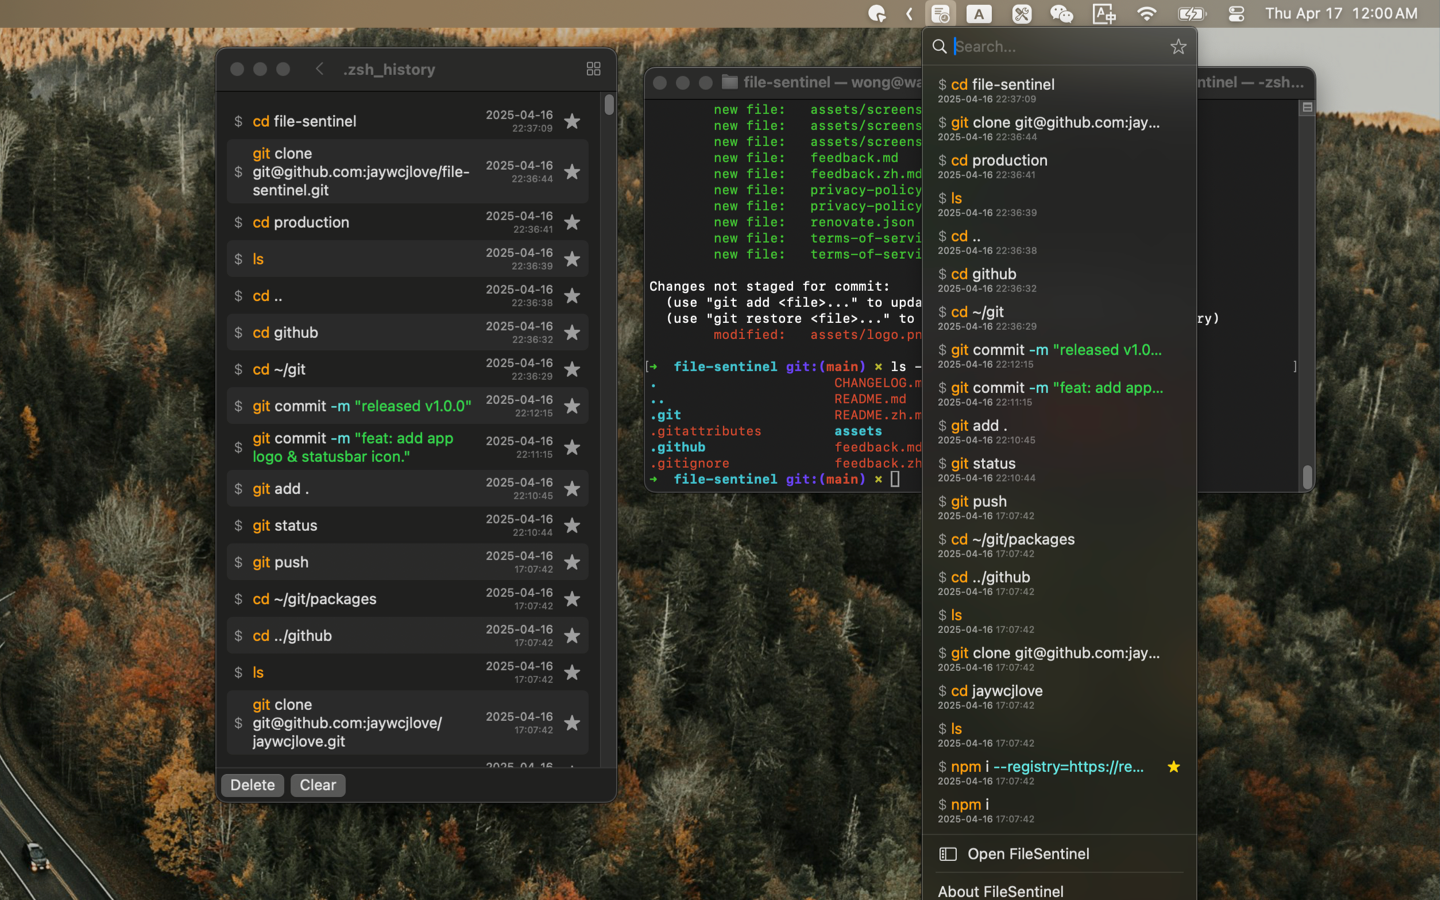
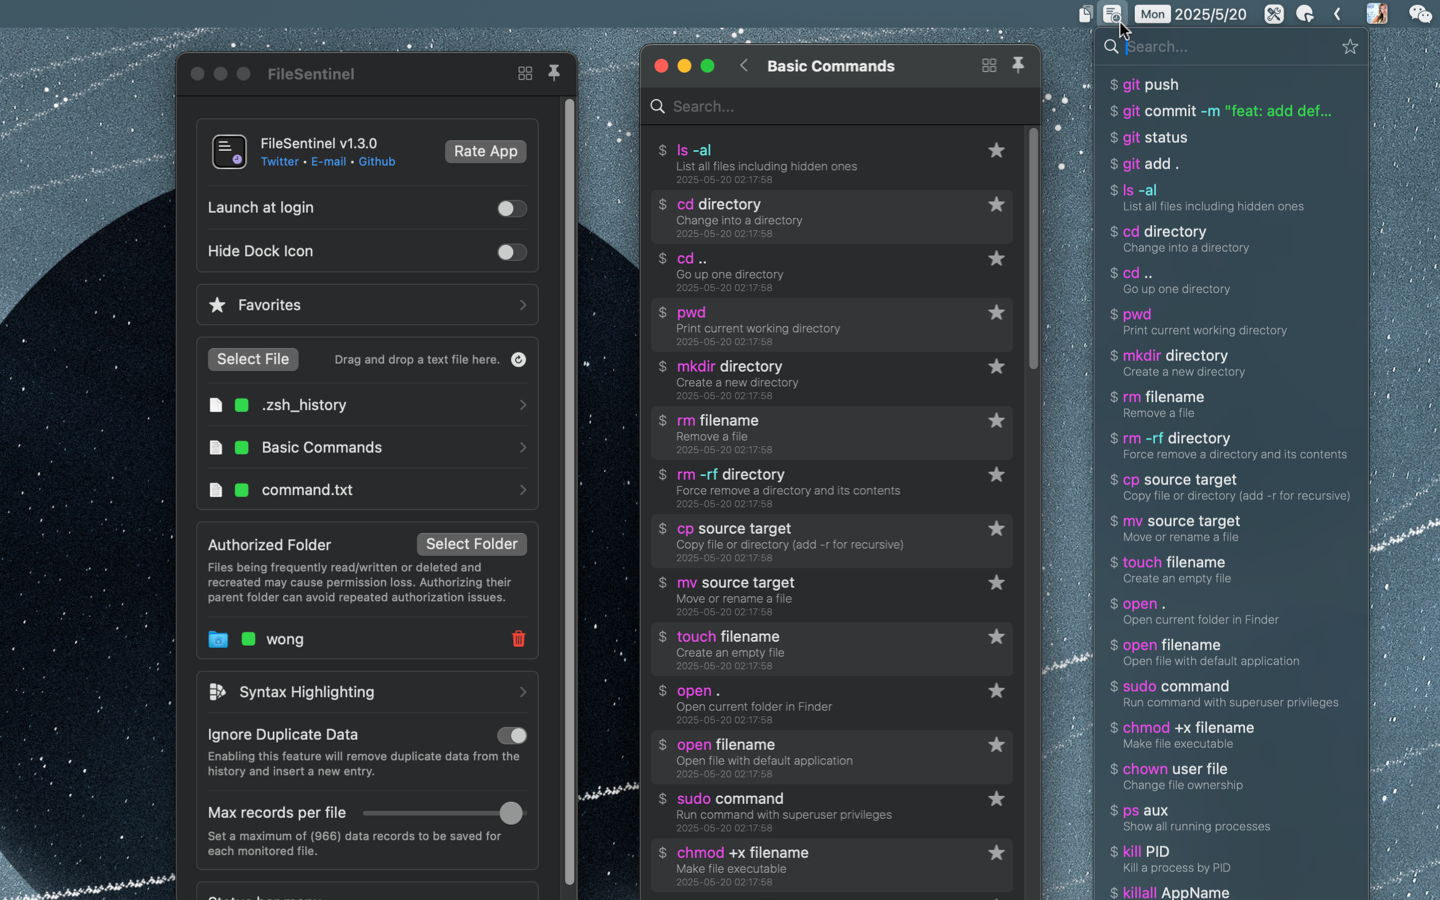
released v1.3.0

diff --git a/CHANGELOG.md b/CHANGELOG.md
@@ -10,6 +10,13 @@ Changelog
 <img alt="FileSentinel AppStore" src="https://jaywcjlove.github.io/sb/download/macos.svg" height="51">
 </a>
 
+## [v1.3.0](https://github.com/jaywcjlove/file-sentinel/releases/tag/v1.3.0)
+
+1. feat: add default commonly used daily terminal commands.
+2. fix: fix issue where removing file watcher had no effect.
+3. fix: fix multi-file watching error.
+4. fix: fix incorrect list display result.
+
 ## [v1.2.1](https://github.com/jaywcjlove/file-sentinel/releases/tag/v1.2.1)
 
 1. fix: resolve error when watching files

diff --git a/CHANGELOG.zh.md b/CHANGELOG.zh.md
@@ -10,6 +10,13 @@
 <img alt="FileSentinel AppStore" src="https://jaywcjlove.github.io/sb/download/macos.svg" height="51">
 </a>
 
+## [v1.3.0](https://github.com/jaywcjlove/file-sentinel/releases/tag/v1.3.0)
+
+1. 新增：添加默认日常操作常用终端命令。
+2. 修复：修复移除文件监听器无效的问题。
+3. 修复：修复多文件监听错误。
+4. 修复：修复列表显示结果错误。
+
 ## [v1.2.1](https://github.com/jaywcjlove/file-sentinel/releases/tag/v1.2.1)
 
 1. fix: 修复监听文件时出现的错误
